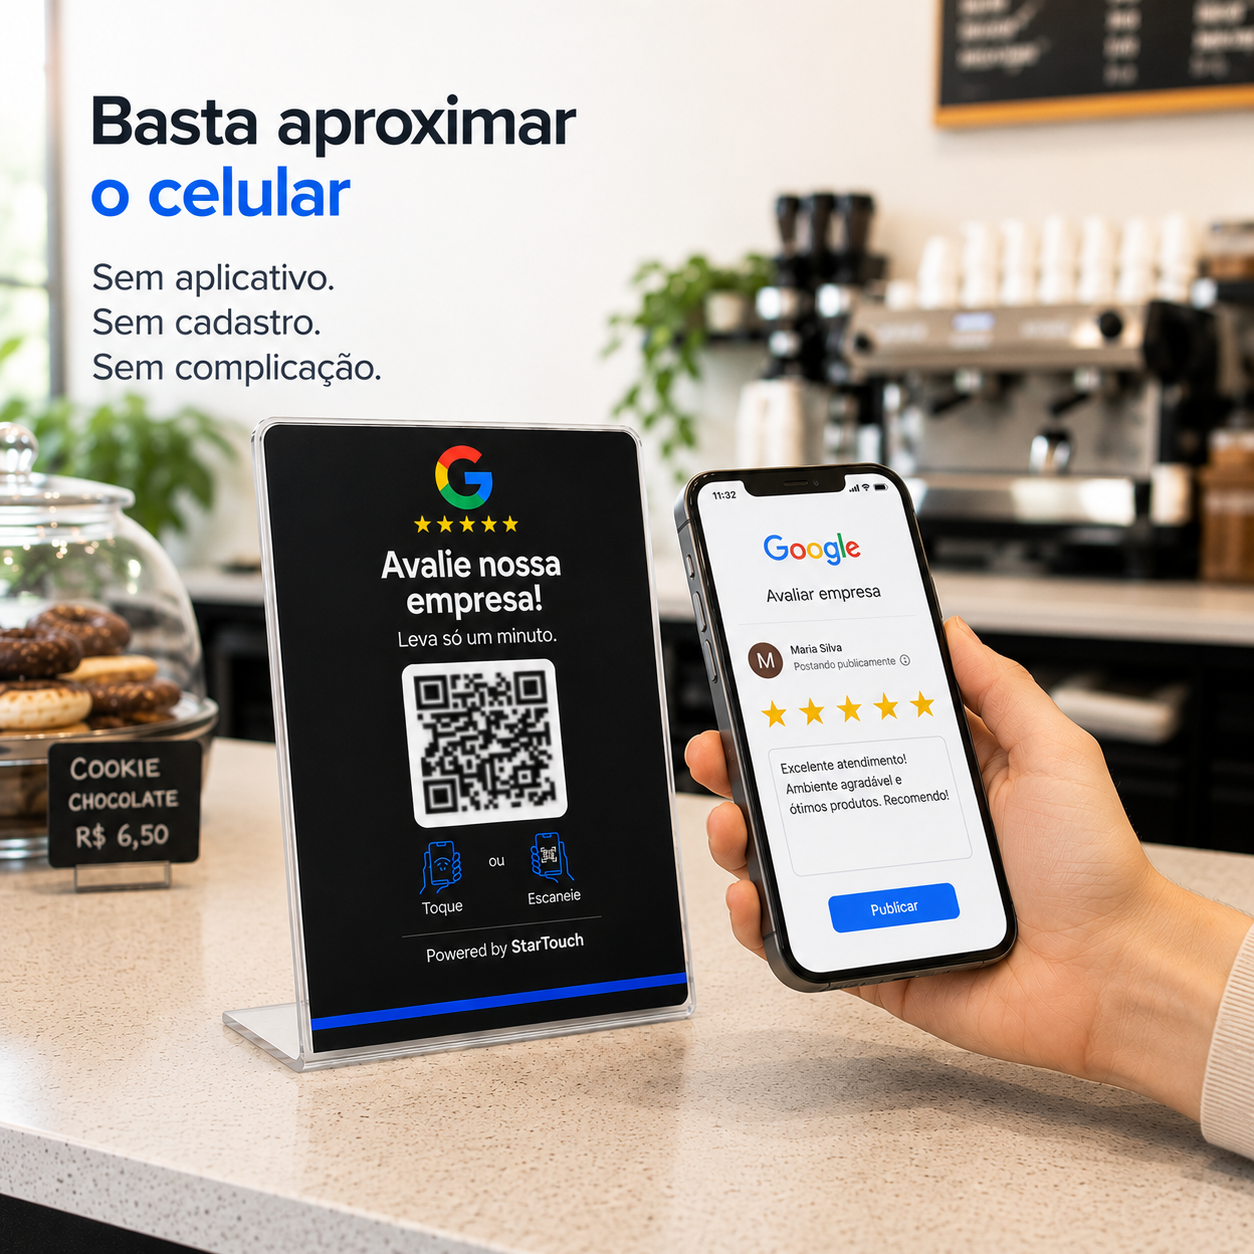
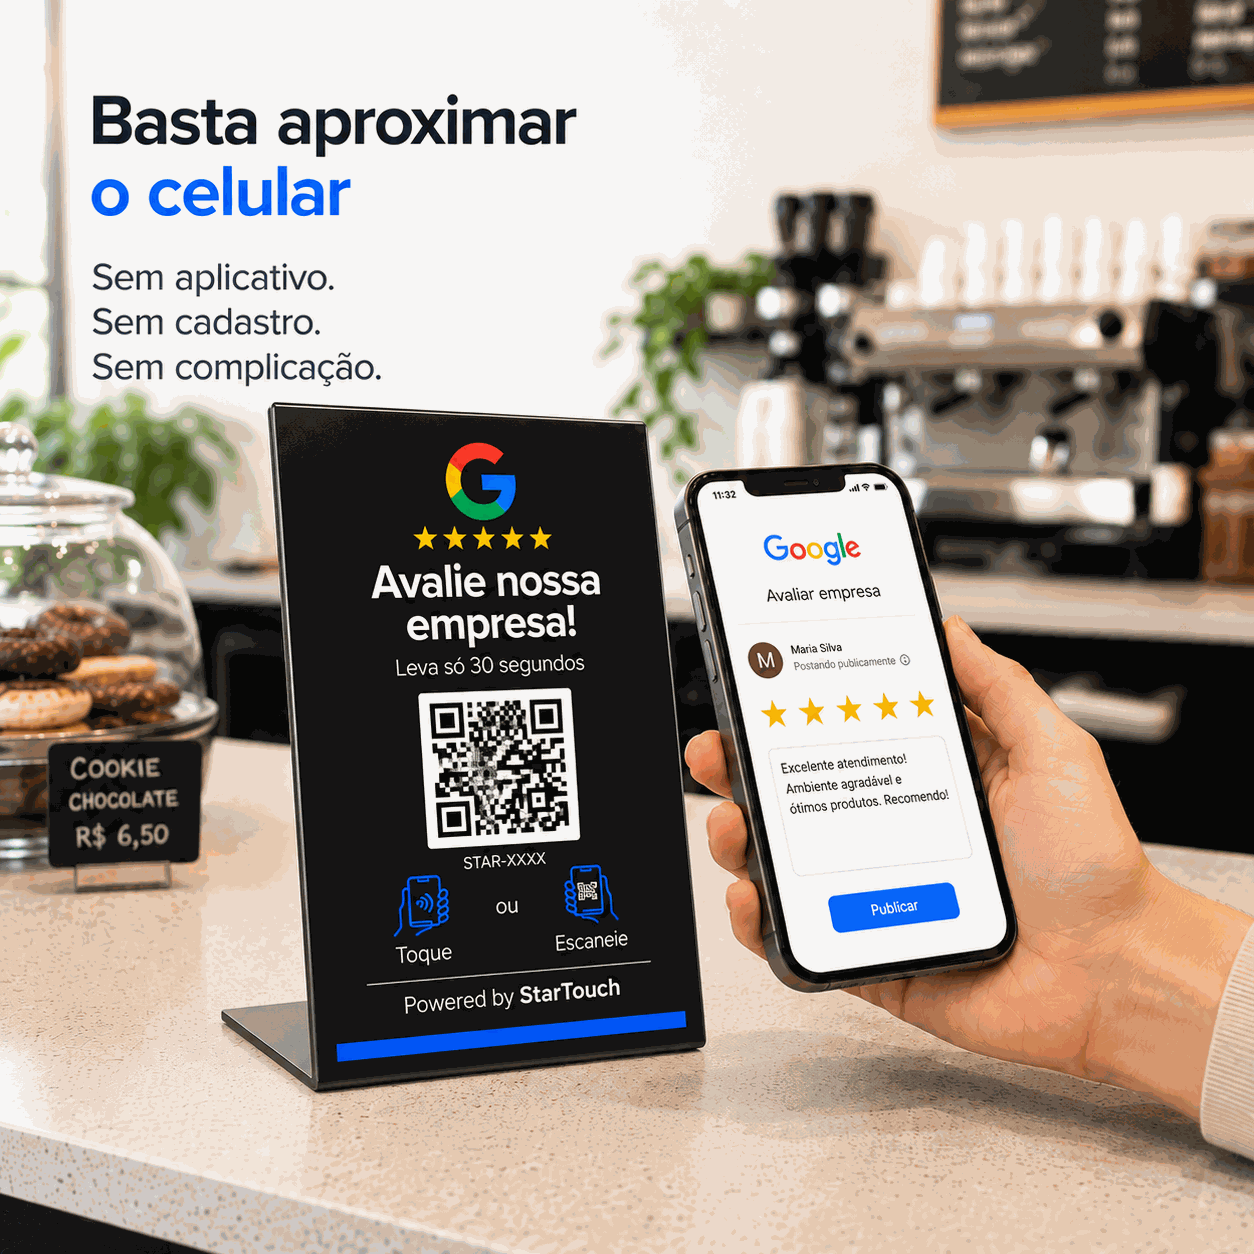
feat(produto): foto "aproximando o celular" da Placa G em PS preto
Substitui placa-g-4.png, que mostrava a placa de acrilico. A nova mostra o
produto em PS preto no balcao com o celular ao lado e a tela do Google ja
aberta pra avaliar — e a unica foto do site que mostra o fluxo inteiro numa
imagem so.

1.833 KB -> 231 KB, quantizada em 256 cores como a outra foto de ambiente.

O alt carrega a chamada impressa na imagem ("Basta aproximar o celular — sem
aplicativo, sem cadastro, sem complicacao") e descreve a tela do celular.
Imagem de texto sem alt equivalente e conteudo invisivel pra leitor de tela e
pro Google.

Faltam tres: placa-g-5 (antes e depois), placa-m-3 (recepcao) e placa-m-4
(avaliando).

Claude-Session: https://claude.ai/code/session_01S5eKpJUpAx1ZzX8rzRNBTg

diff --git a/public/landing.html b/public/landing.html
@@ -4578,7 +4578,7 @@
             <button class="eco-gallery-thumb is-active" type="button" data-full="/gadget-placa.png" aria-label="Ver foto 1 — produto"><img src="/gadget-placa.png" alt="Placa de Balcão G — produto" loading="lazy"/></button>
             <button class="eco-gallery-thumb" type="button" data-full="/placa-g-2.png" aria-label="Ver foto 2 — de frente"><img src="/placa-g-2.png" alt="Placa de Balcão G vista de frente — PS preto 2 mm" loading="lazy"/></button>
             <button class="eco-gallery-thumb" type="button" data-full="/placa-g-3.png" aria-label="Ver foto 3 — no balcão de um café"><img src="/placa-g-3.png" alt="Placa de Balcão G no balcão de um café, ao lado da maquininha: &quot;Perfeita para balcões e recepções — instale em segundos e comece a receber avaliações&quot;" loading="lazy"/></button>
-            <button class="eco-gallery-thumb" type="button" data-full="/placa-g-4.png" aria-label="Ver foto 4 — aproximando o celular"><img src="/placa-g-4.png" alt="Cliente aproximando o celular da Placa de Balcão G" loading="lazy"/></button>
+            <button class="eco-gallery-thumb" type="button" data-full="/placa-g-4.png" aria-label="Ver foto 4 — aproximando o celular"><img src="/placa-g-4.png" alt="Cliente aproximando o celular da Placa de Balcão G e a tela do Google já aberta para avaliar: &quot;Basta aproximar o celular — sem aplicativo, sem cadastro, sem complicação&quot;" loading="lazy"/></button>
             <button class="eco-gallery-thumb" type="button" data-full="/placa-g-5.png" aria-label="Ver foto 5 — antes e depois"><img src="/placa-g-5.png" alt="Antes e depois: mais avaliações no Google com a Placa G" loading="lazy"/></button>
           </div>
         </div>
